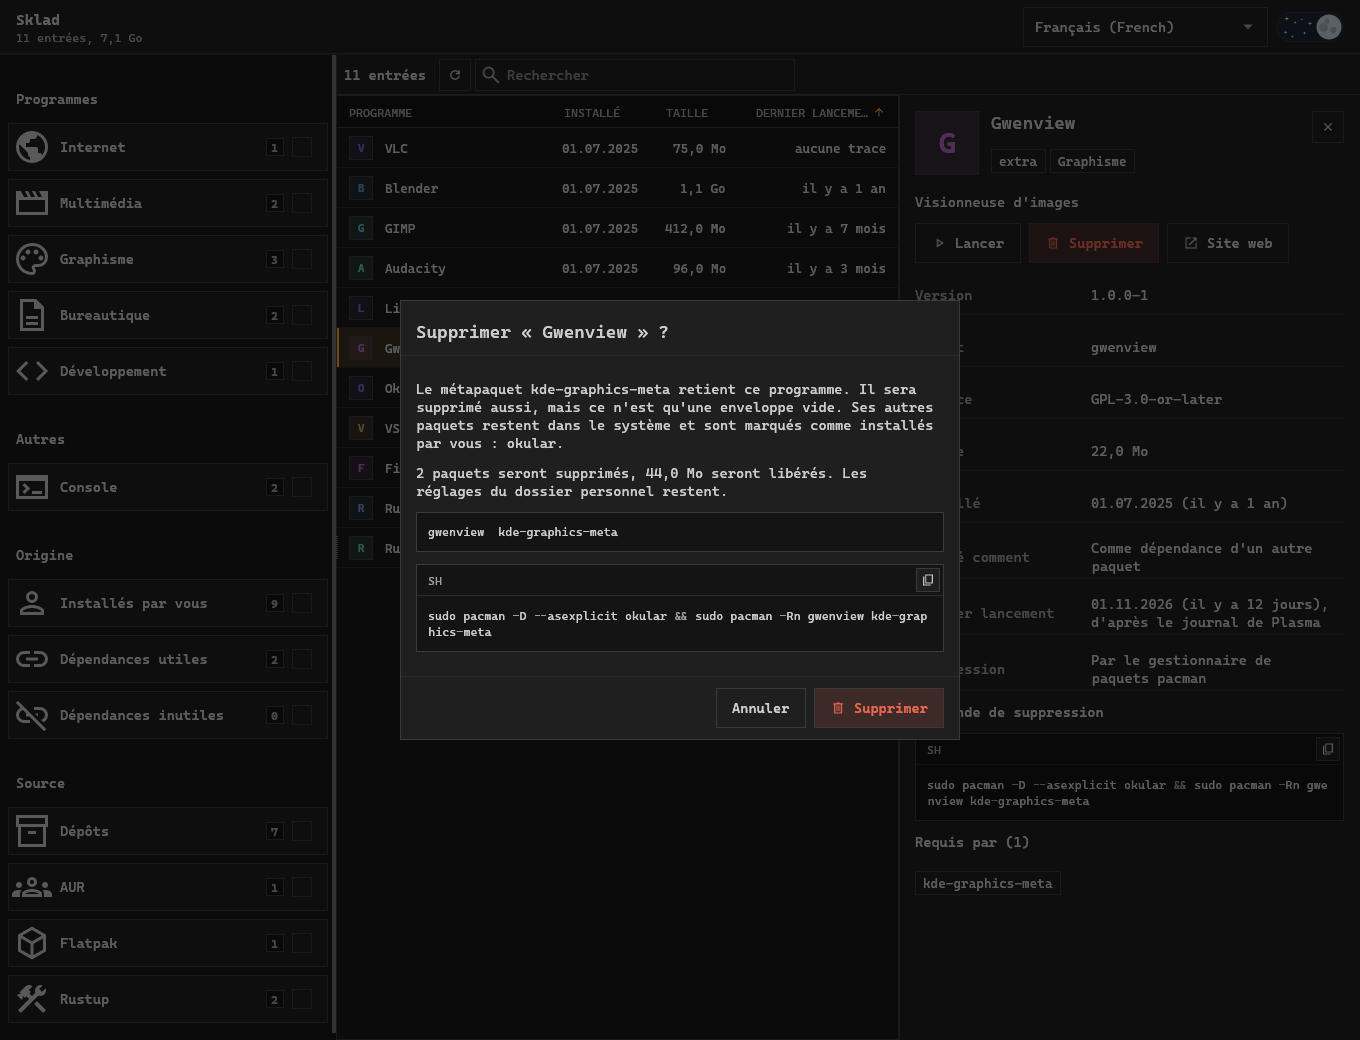
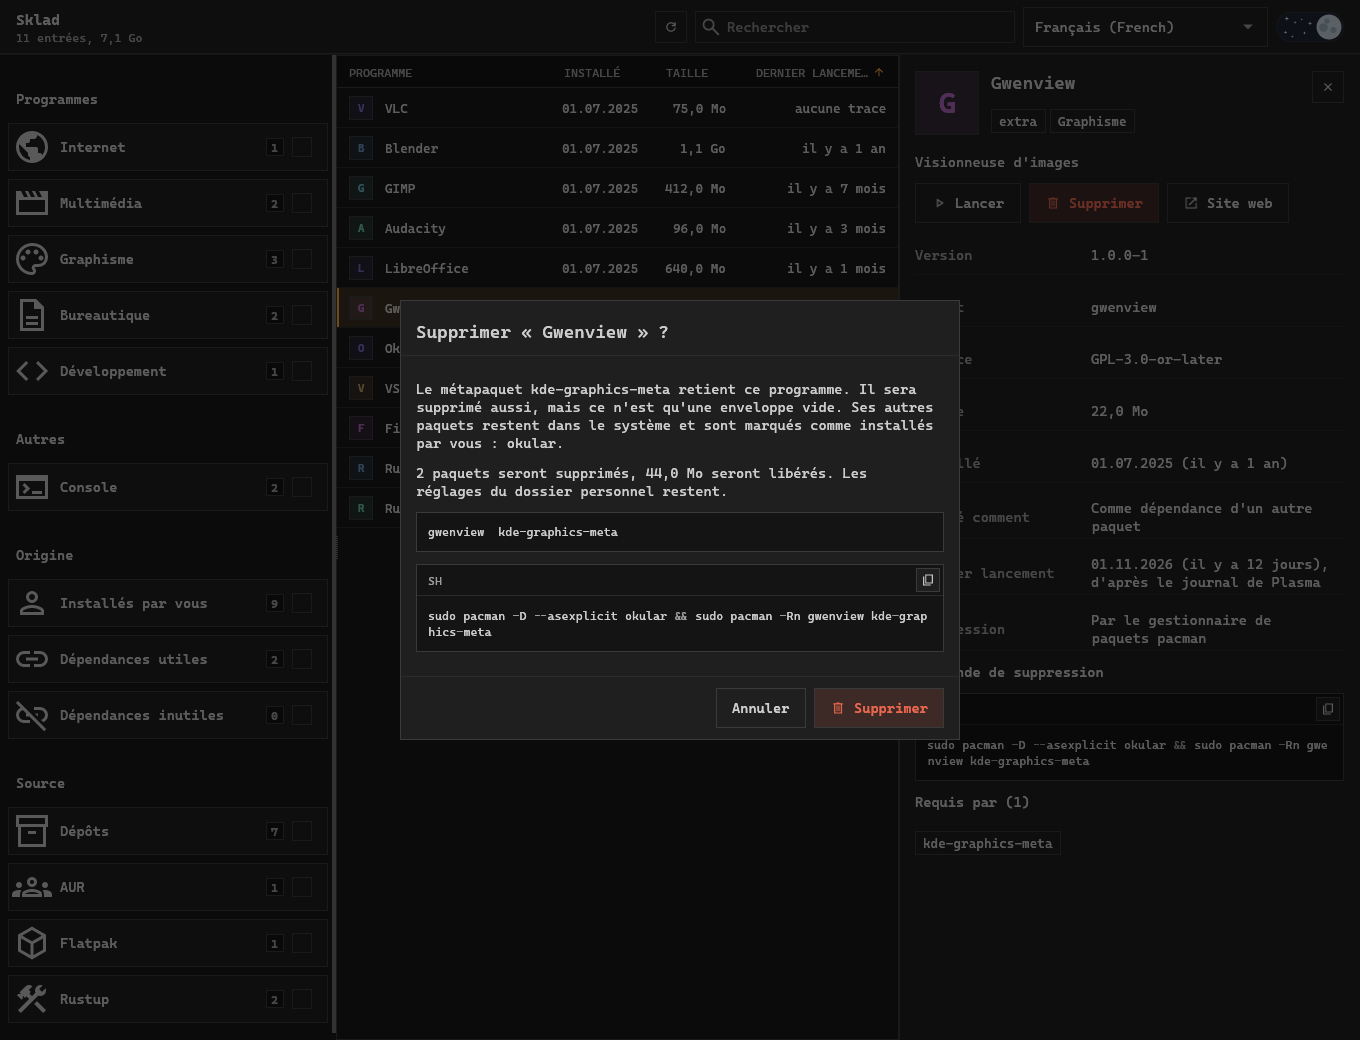
feat(ui): one bar over the list until a filter is on
Search and refresh move into the header, whose subtitle now says how
many entries the list shows out of how many there are, and their size.
The bar under it holds only the chosen filters as chips, with the chip
that resets them at its end, and shows only while a filter is on; chips
that do not fit scroll sideways without a scroll bar.

SearchField and Combobox placed their text edit with `put`, which moved
the layout cursor into the field: in a right-to-left row the next control
overlapped the search icon and the gaps disappeared. They use `place`.

diff --git a/src/ui/mod.rs b/src/ui/mod.rs
@@ -24,7 +24,7 @@ use dialog::{Dialog, Exit};
 use operator::button::IconButton;
 use operator::checkbox_group::{CheckboxGroup, GroupItem, IconSize};
 use operator::combobox::{self, Combobox};
-use operator::content::{ChipColor, Pane, SplitPane, chip, chip_set, input_chip, theme_toggle};
+use operator::content::{ChipColor, Pane, SplitPane, chip, input_chip, theme_toggle};
 use operator::feedback::{Toasts, Tone};
 use operator::icon::{self, Icon};
 use operator::layout::{header, toolbar};
@@ -310,19 +310,26 @@ impl App {
 
     fn header(&mut self, ui: &mut Ui, palette: &Palette) {
         let text = self.text();
+        // What the list shows, and how much it takes: all of it, or the part the filters and the
+        // search leave.
         let subtitle = match &self.catalog {
             Some(catalog) => {
-                let total: u64 = catalog.items.iter().filter_map(|item| item.size).sum();
-                format!(
-                    "{}, {}",
-                    (text.records)(catalog.items.len()),
-                    format::size(total, text)
-                )
+                let shown = &self.visible;
+                let size: u64 = shown.iter().filter_map(|&index| catalog.items[index].size).sum();
+                let count = if shown.len() == catalog.items.len() {
+                    (text.records)(shown.len())
+                } else {
+                    (text.shown_of)(shown.len(), catalog.items.len())
+                };
+                format!("{count}, {}", format::size(size, text))
             }
             None => text.reading_system.to_owned(),
         };
         let mut toggled = false;
         let mut language = None;
+        let mut refresh = false;
+        let mut query = None;
+        let look = self.refresh.look(ui.input(|input| input.time), result_hold());
         header(ui, text.app_name, Some(&subtitle), palette, |ui| {
             toggled = theme_toggle(ui, Id::unique("theme"), self.dark, text.dark_theme, palette);
             let names: Vec<String> = Lang::ALL.iter().map(|lang| lang.name().to_owned()).collect();
@@ -339,7 +346,25 @@ impl App {
             }
             .show(ui, selected, palette);
             language = choice.and_then(|index| Lang::ALL.get(index).copied());
+            let field = SearchField {
+                id: Id::unique("search"),
+                placeholder: text.search,
+                clear_label: text.clear_search,
+                height: dim::ROW_COMPACT,
+                width: (ui.available_width() - du(dim::ROW_COMPACT + dim::GUTTER)).clamp(0.0, du(80.0)),
+            };
+            query = field.show(ui, &mut self.view.query, palette);
+            refresh = IconButton::new(icon::REFRESH, text.refresh)
+                .look(look)
+                .show(ui, palette)
+                .clicked();
         });
+        if refresh && self.scanning.is_none() {
+            self.rescan(ui.ctx());
+        }
+        if query.is_some() {
+            self.refilter();
+        }
         if toggled {
             self.dark = !self.dark;
         }
@@ -425,34 +450,39 @@ impl App {
         });
     }
 
-    /// The chosen filters as chips, each with its remove button, and a chip that takes them all
-    /// off. Nothing when no filter is on.
-    fn filter_chips(&mut self, ui: &mut Ui, palette: &Palette) {
+    /// The chosen filters as chips, each with its remove button, and a chip at the end that
+    /// takes them all off. Nothing when no filter is on.
+    fn filter_bar(&mut self, ui: &mut Ui, palette: &Palette) {
         if self.view.filters().is_empty() {
             return;
         }
         let text = self.text();
         let mut removed = None;
         let mut reset = false;
-        Frame::new()
-            .fill(palette.surface)
-            .inner_margin(egui::Margin::same(du(dim::PAD_CARD) as i8 / 2))
-            .show(ui, |ui| {
-                ui.set_width(ui.available_width());
-                chip_set(ui, |ui| {
-                    for &facet in self.view.filters() {
-                        let (_, name) = facet_label(facet, text);
-                        let id = Id::unique(("filter chip", name));
-                        if input_chip(ui, id, name, &(text.remove_filter)(name), palette) {
-                            removed = Some(facet);
-                        }
-                    }
-                    reset = chip(ui, text.reset_filters, ChipColor::Neutral, true, palette).clicked();
-                });
-            });
-        let rect = ui.min_rect();
-        let line = egui::Stroke::new(operator::state::BORDER, palette.border);
-        ui.painter().hline(rect.x_range(), ui.cursor().top(), line);
+        let filters = self.view.filters().to_vec();
+        toolbar(
+            ui,
+            text.filters,
+            palette,
+            |ui| {
+                ScrollArea::horizontal()
+                    .id_salt("filter chips")
+                    .scroll_bar_visibility(egui::scroll_area::ScrollBarVisibility::AlwaysHidden)
+                    .show(ui, |ui| {
+                        ui.horizontal(|ui| {
+                            ui.spacing_mut().item_spacing.x = du(dim::PAD_TIGHT);
+                            for facet in filters {
+                                let (_, name) = facet_label(facet, text);
+                                let id = Id::unique(("filter chip", name));
+                                if input_chip(ui, id, name, &(text.remove_filter)(name), palette) {
+                                    removed = Some(facet);
+                                }
+                            }
+                        });
+                    });
+            },
+            |ui| reset = chip(ui, text.reset_filters, ChipColor::Neutral, true, palette).clicked(),
+        );
         if let Some(facet) = removed {
             self.view.toggle(facet);
             self.refilter();
@@ -461,41 +491,6 @@ impl App {
             self.view.clear();
             self.refilter();
         }
-    }
-
-    fn tool_bar(&mut self, ui: &mut Ui, now: f64, palette: &Palette) {
-        let text = self.text();
-        let title = (text.records)(self.visible.len());
-        let look = self.refresh.look(now, result_hold());
-        let mut refresh = false;
-        let mut query = None;
-        toolbar(
-            ui,
-            &title,
-            palette,
-            |ui| {
-                refresh = IconButton::new(icon::REFRESH, text.refresh)
-                    .look(look)
-                    .show(ui, palette)
-                    .clicked();
-                let field = SearchField {
-                    id: Id::unique("search"),
-                    placeholder: text.search,
-                    clear_label: text.clear_search,
-                    height: dim::ROW_COMPACT,
-                    width: ui.available_width().clamp(0.0, du(80.0)),
-                };
-                query = field.show(ui, &mut self.view.query, palette);
-            },
-            |_| {},
-        );
-        if refresh && self.scanning.is_none() {
-            self.rescan(ui.ctx());
-        }
-        if query.is_some() {
-            self.refilter();
-        }
-        self.filter_chips(ui, palette);
     }
 
     fn list(&mut self, ui: &mut Ui, now: i64, palette: &Palette) {
@@ -583,8 +578,8 @@ impl App {
     }
 
     /// The tool bar over the list, and the card beside it when something is selected.
-    fn catalogue(&mut self, ui: &mut Ui, time: f64, now: i64, palette: &Palette) {
-        self.tool_bar(ui, time, palette);
+    fn catalogue(&mut self, ui: &mut Ui, now: i64, palette: &Palette) {
+        self.filter_bar(ui, palette);
         if self.selection.is_some() {
             let mut split = self.split;
             let pane = SplitPane {
@@ -636,7 +631,7 @@ impl App {
             };
             sections.show(ui, &mut side, palette, |ui, pane| match pane {
                 Pane::Start => self.side_bar(ui, palette),
-                Pane::End => self.catalogue(ui, time, now, palette),
+                Pane::End => self.catalogue(ui, now, palette),
             });
             self.side = Some(side);
         });

diff --git a/src/i18n/ru.rs b/src/i18n/ru.rs
@@ -71,6 +71,15 @@ pub static TEXT: Text = Text {
     clear_search: "Очистить поиск",
     removed: |title| format!("Удалено: {title}"),
     records: |count| format!("{count} {}", plural(count as i64, "запись", "записи", "записей")),
+    shown_of: |shown, total| {
+        let noun = if total % 10 == 1 && total % 100 != 11 {
+            "записи"
+        } else {
+            "записей"
+        };
+        format!("{shown} из {total} {noun}")
+    },
+    filters: "Фильтры",
 
     sort_by: "Сортировать:",
     sort_last_run: "Последний запуск",

diff --git a/src/i18n/uk.rs b/src/i18n/uk.rs
@@ -71,6 +71,15 @@ pub static TEXT: Text = Text {
     clear_search: "Очистити пошук",
     removed: |title| format!("Видалено: {title}"),
     records: |count| format!("{count} {}", plural(count as i64, "запис", "записи", "записів")),
+    shown_of: |shown, total| {
+        let noun = if total % 10 == 1 && total % 100 != 11 {
+            "запису"
+        } else {
+            "записів"
+        };
+        format!("{shown} з {total} {noun}")
+    },
+    filters: "Фільтри",
 
     sort_by: "Сортувати:",
     sort_last_run: "Останній запуск",

diff --git a/src/ui/operator/combobox.rs b/src/ui/operator/combobox.rs
@@ -90,7 +90,8 @@ impl Combobox<'_> {
             .align(Align2::LEFT_CENTER);
         let row = ui.spacing().interact_size.y;
         ui.spacing_mut().interact_size.y = height;
-        let response = ui.put(text_rect, edit);
+        // `place` leaves the layout cursor alone: the field already took its whole rectangle.
+        let response = ui.place(text_rect, edit);
         ui.spacing_mut().interact_size.y = row;
         response.widget_info(|| WidgetInfo::labeled(egui::Role::ComboBox, true, self.label));
         let arrow_response = ui.interact(arrow, self.id.with("arrow"), Sense::click());

diff --git a/src/ui/operator/search_field.rs b/src/ui/operator/search_field.rs
@@ -45,7 +45,8 @@ impl SearchField<'_> {
             .align(Align2::LEFT_CENTER);
         let row = ui.spacing().interact_size.y;
         ui.spacing_mut().interact_size.y = height;
-        let response = ui.put(text_rect, edit);
+        // `place` leaves the layout cursor alone: the field already took its whole rectangle.
+        let response = ui.place(text_rect, edit);
         ui.spacing_mut().interact_size.y = row;
         let focused = response.has_focus();
         let mut report_now = focused && ui.input(|input| input.key_pressed(Key::Enter));

diff --git a/src/i18n/mod.rs b/src/i18n/mod.rs
@@ -150,6 +150,10 @@ pub struct Text {
     pub clear_search: &'static str,
     pub removed: fn(&str) -> String,
     pub records: fn(usize) -> String,
+    /// How many entries the list shows out of how many there are.
+    pub shown_of: fn(usize, usize) -> String,
+    /// The title of the bar of chosen filters.
+    pub filters: &'static str,
 
     pub sort_by: &'static str,
     pub sort_last_run: &'static str,

diff --git a/src/i18n/fr.rs b/src/i18n/fr.rs
@@ -58,6 +58,8 @@ pub static TEXT: Text = Text {
     clear_search: "Effacer la recherche",
     removed: |title| format!("Supprimé : {title}"),
     records: |count| counted(count as i64, "entrée", "entrées"),
+    shown_of: |shown, total| format!("{shown} sur {}", counted(total as i64, "entrée", "entrées")),
+    filters: "Filtres",
 
     sort_by: "Trier par :",
     sort_last_run: "Dernier lancement",

diff --git a/src/i18n/en.rs b/src/i18n/en.rs
@@ -60,6 +60,11 @@ pub static TEXT: Text = Text {
         1 => "1 entry".to_owned(),
         _ => format!("{count} entries"),
     },
+    shown_of: |shown, total| match total {
+        1 => format!("{shown} of 1 entry"),
+        _ => format!("{shown} of {total} entries"),
+    },
+    filters: "Filters",
 
     sort_by: "Sort by:",
     sort_last_run: "Last launch",
